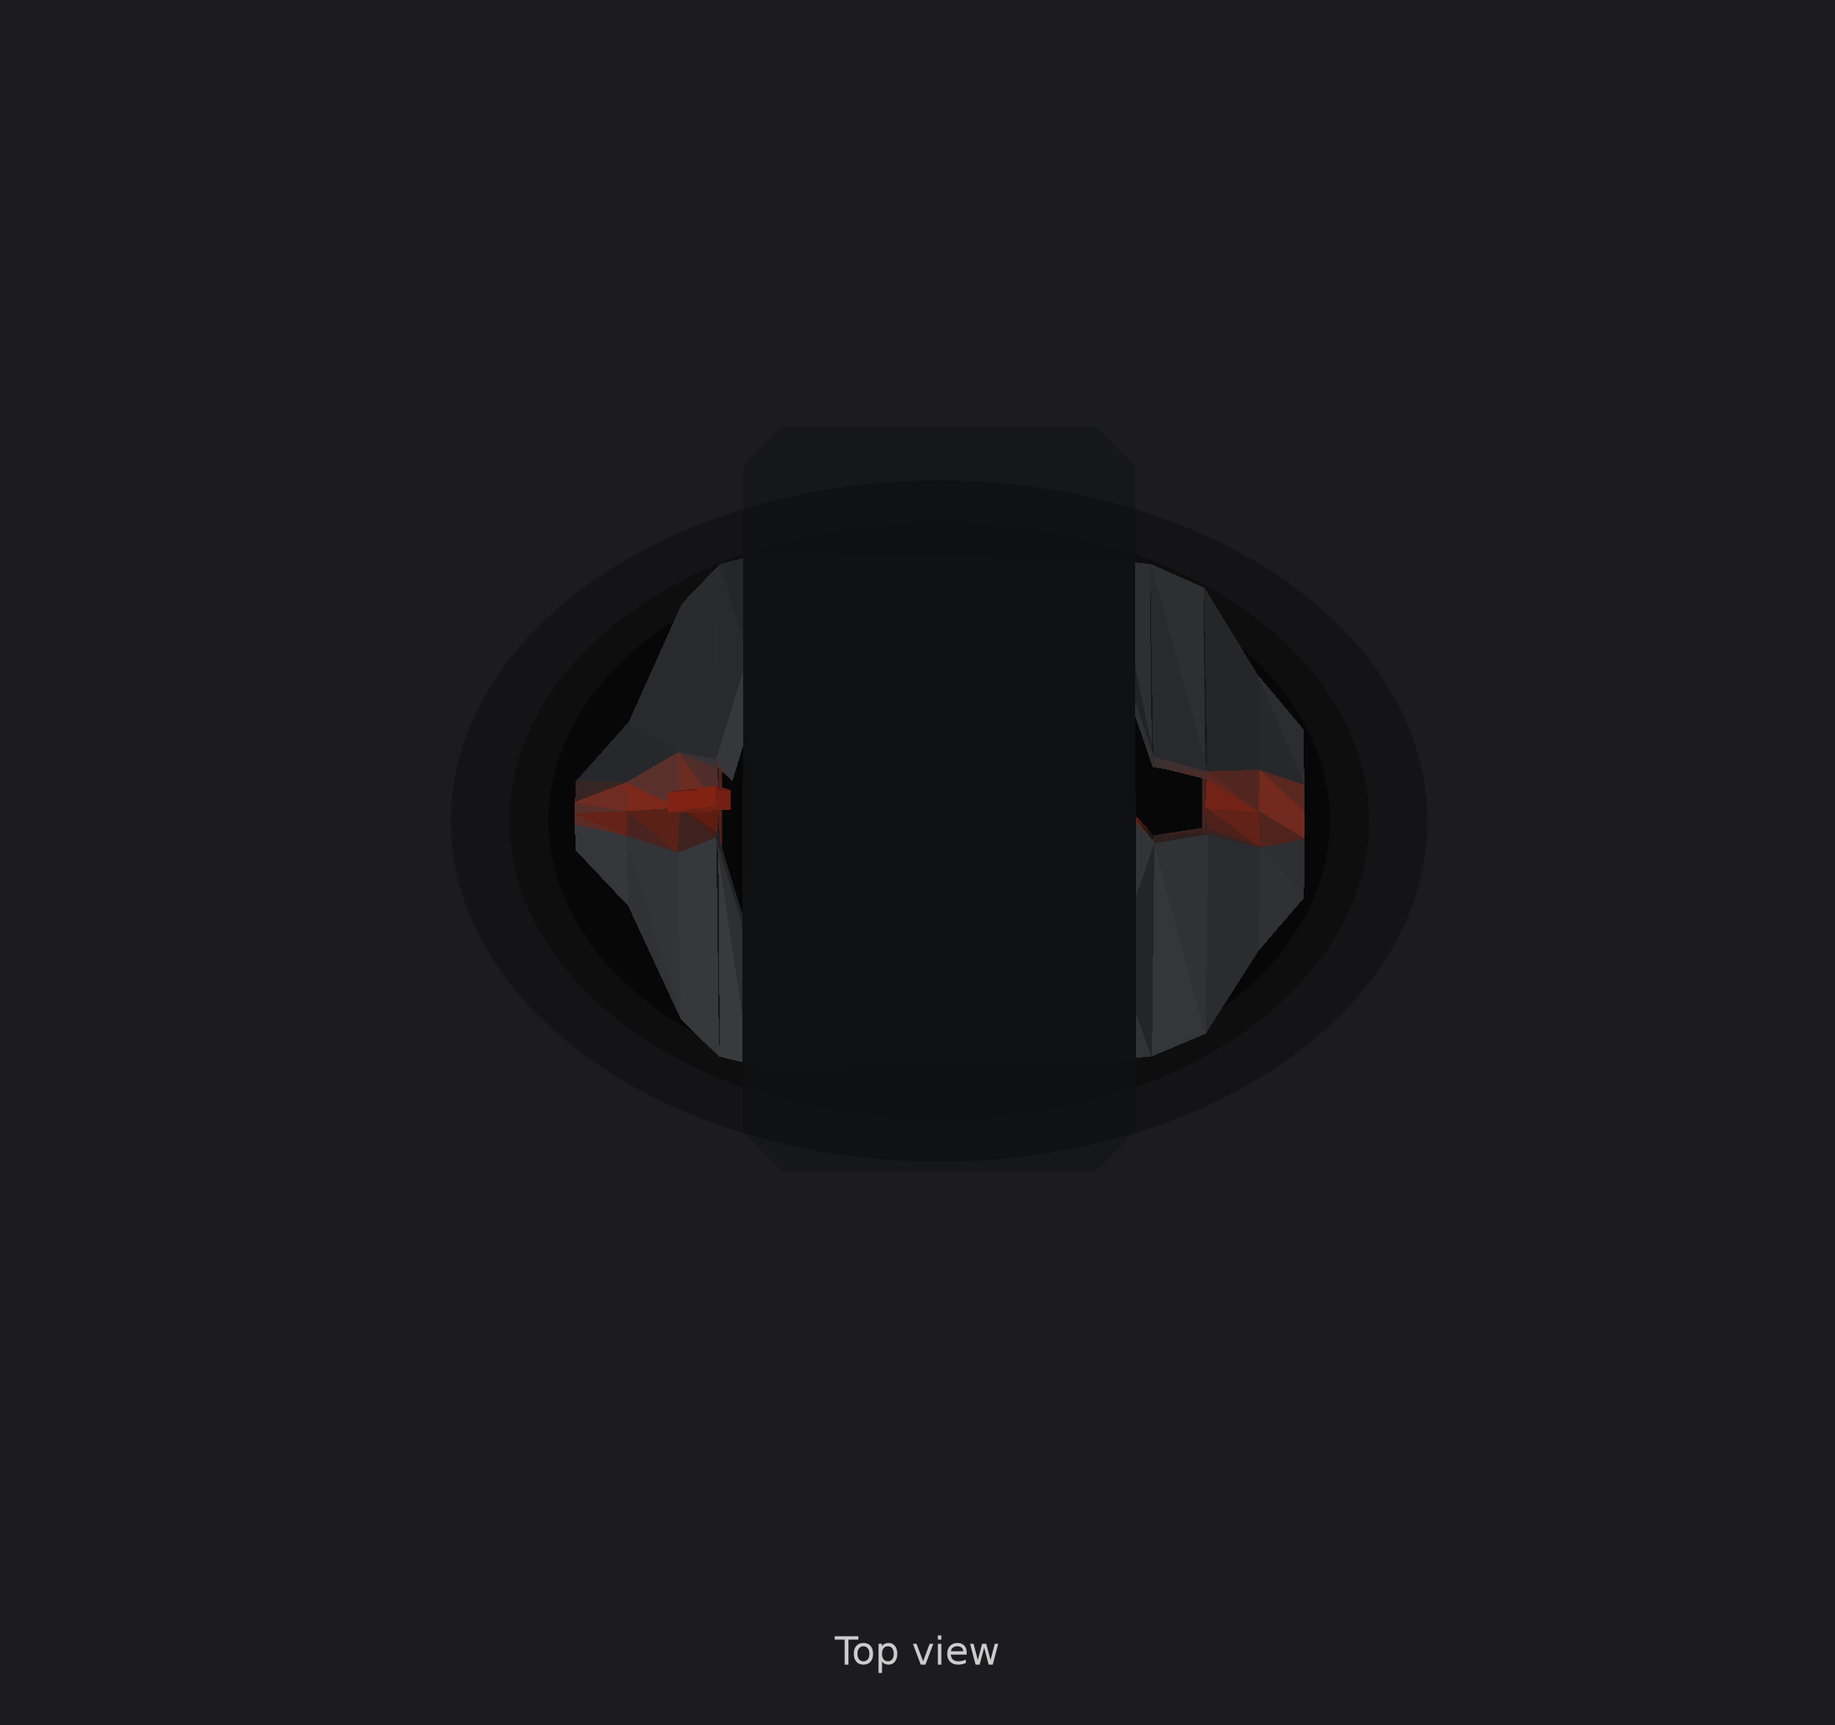
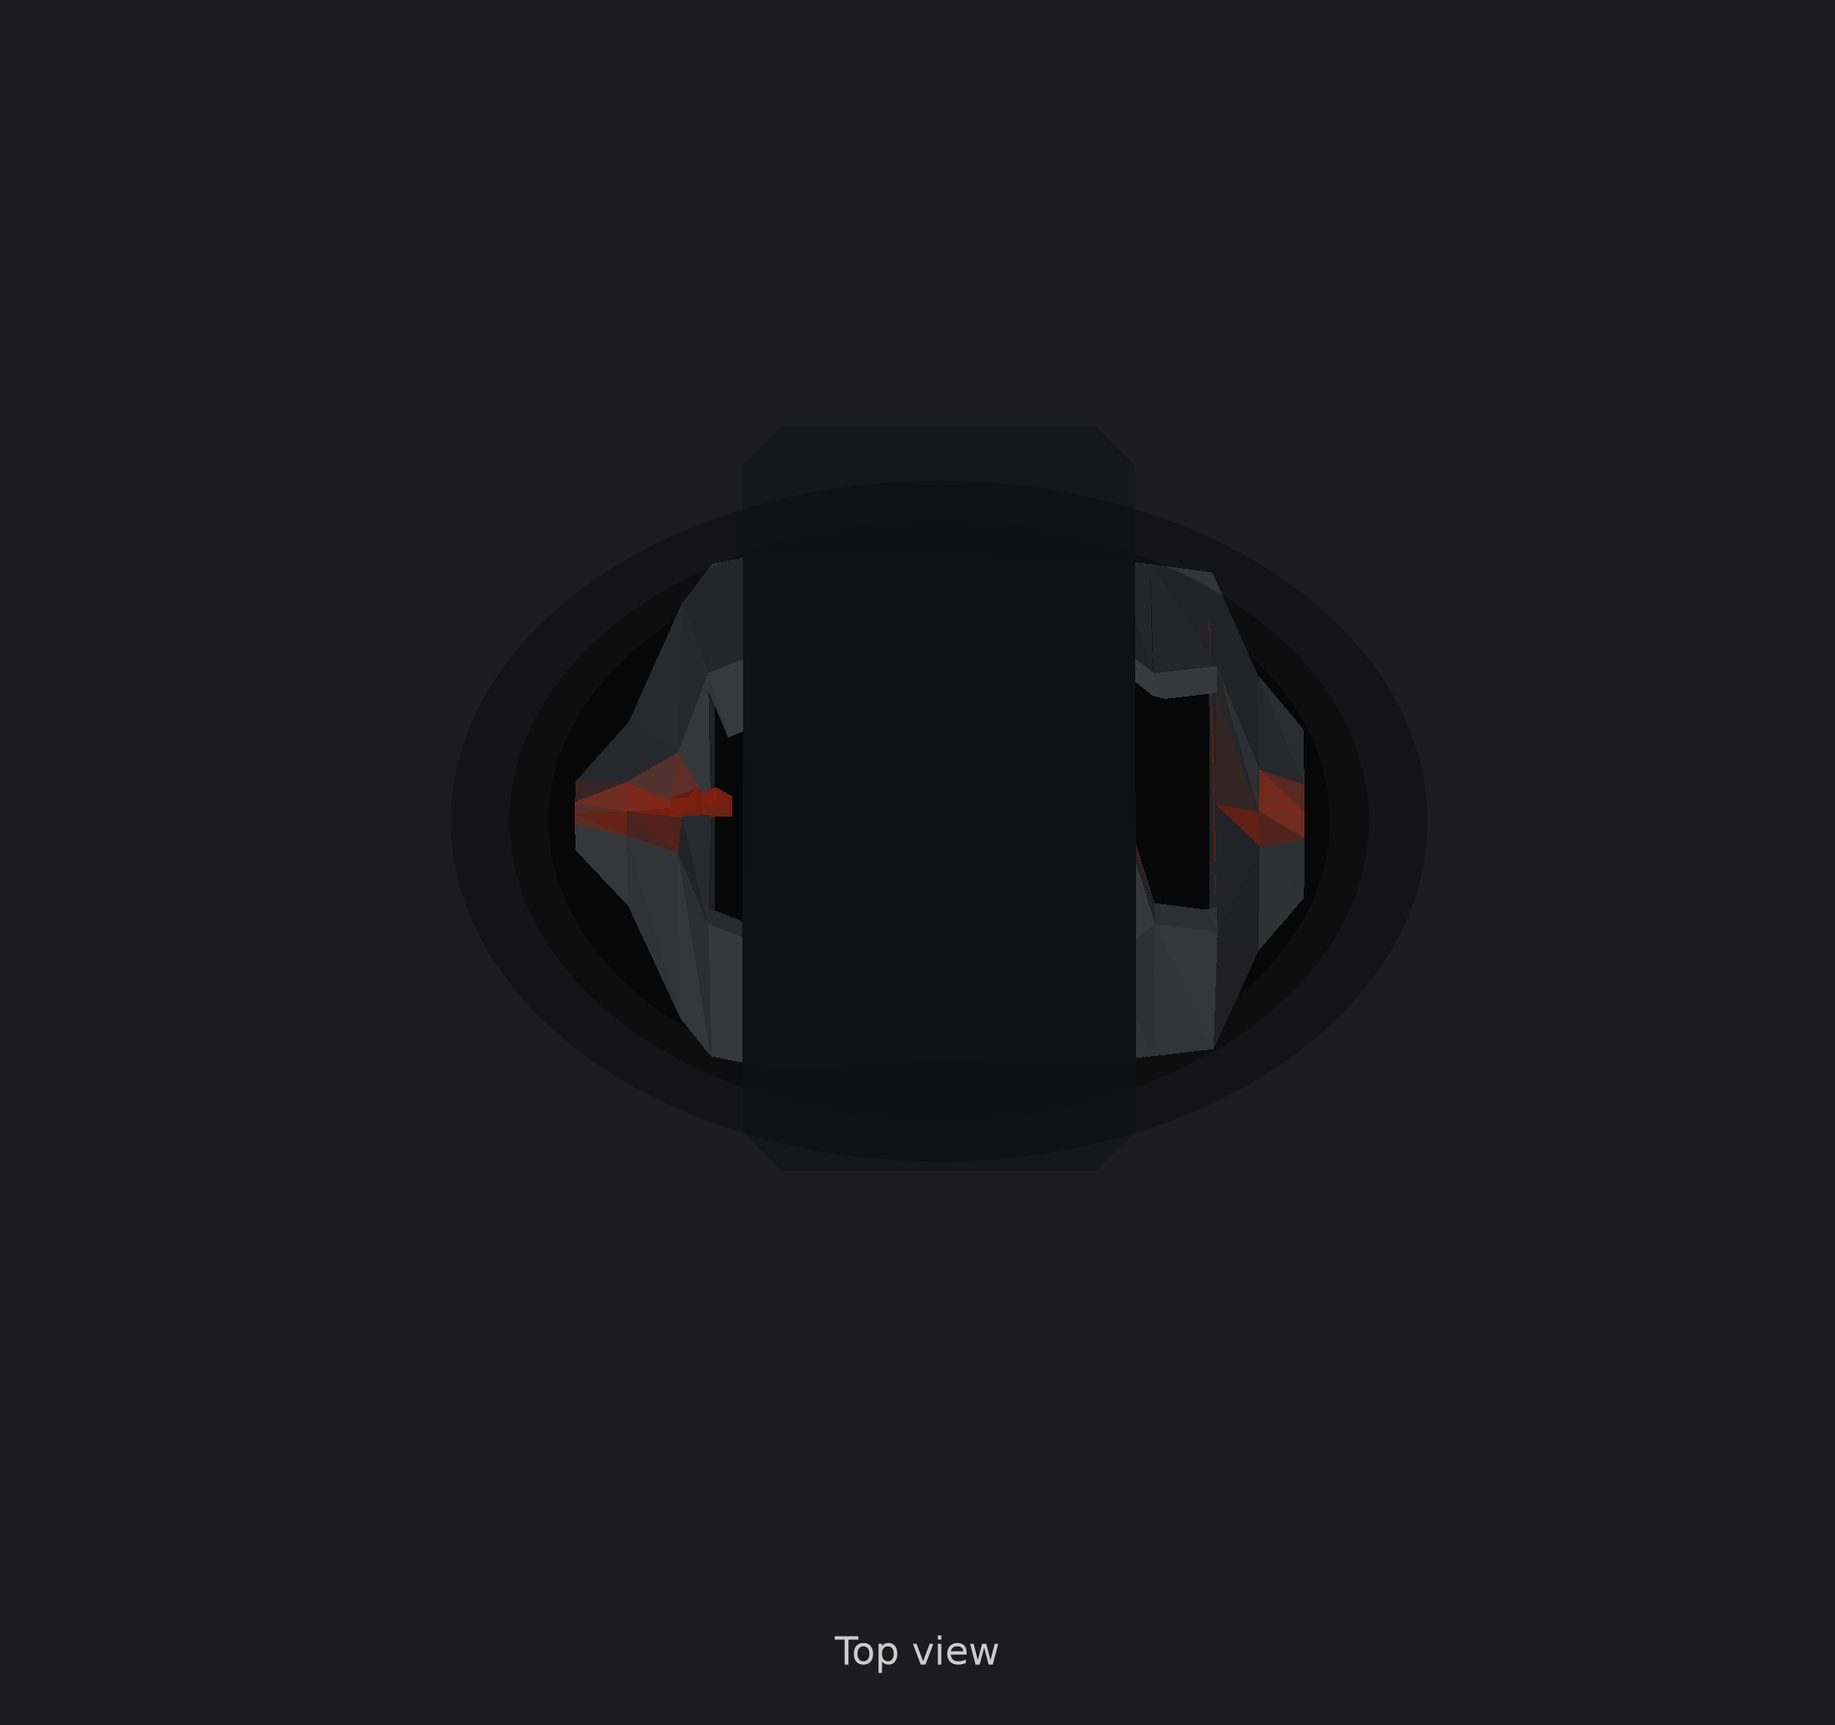
Fix floating fins and cavity sizing shortfall
Two real bugs caught from the user's Rhino screenshots:

1. Fins floating with a visible gap underneath. The fin base was
   anchored to `az` (ridge height at y=+-rw), but the fins sit
   centered at y=0 - the bottom of the V-notch, not the ridge. True
   surface there is 18-22mm lower (az - groove). Fixed by anchoring
   to az-groove and raising fin height (9/11mm -> 26mm) so the tips
   still clear the ridge from their now-correct, lower base.

2. Cavity didn't actually clear 130x85x40 everywhere, only looked
   close by gross INNER_X_RANGE length. Checking every station
   individually (half-width at the 40mm height components need)
   found the two hollow-boundary stations plus one in the middle
   pinched down to 25-63mm wide - well under the 85mm needed. Widened
   the ridge (not the groove depth, so the look is unchanged) at
   those three stations; every station across the full 130mm span
   now individually passes, verified numerically.

External envelope unaffected: still 190x133x62mm. Also documented why
Rhino's BoundingBox read 190x190x66.6 - that's body+plate cumulative,
and the plate is deliberately 190mm wide to span for the bar clamps
per spec section 7. Body alone matches the spec envelope.

Applied identically to generate_enclosure.py and
rhino_build_enclosure.py; verified both files' STATIONS/fin tables
match exactly.

Claude-Session: https://claude.ai/code/session_01SGh8fozgoC1NAkC23KzhgU

diff --git a/hardware/handlebar-enclosure/generate_enclosure.py b/hardware/handlebar-enclosure/generate_enclosure.py
@@ -20,16 +20,26 @@ PAD_X0, PAD_X1 = 50.0, 140.0
 WALL_T = 3.0
 
 # (x, bw, sw, sz, rw, az, groove)
+# NOTE on x=36/150/166: these are the INNER_X_RANGE hollow boundaries.
+# Originally (x=38 rw=10, x=150 rw=11, x=164 rw=8) they were narrow
+# enough that the interior didn't clear 85mm width at the 40mm height the
+# spec needs - checked numerically (half-width at z=40 came out to
+# 31/28/12mm, all failing the 42.5mm-half-width bar). Widened rw/az at
+# these three stations so the actual usable interior - not just the
+# gross INNER_X_RANGE span - clears 130x85x40 (verified below after
+# rebuilding). The V-notch (groove) is unchanged, so the dragon-seam
+# look is the same, just the ridge the groove cuts into is a bit wider
+# and taller at these specific stations.
 STATIONS = [
     (0.0,    7,  9,  6,  3, 12,  0.0),   # nose tip - low, narrow, sharp
     (14.0,  18, 24, 12,  7, 26,  7.0),   # nose rises, V starting to open
     (28.0,  40, 54, 21, 13, 46, 16.0),   # shoulder widens, deep V
-    (38.0,  56, 64, 25, 10, 58, 24.0),   # tall sharp ridge peak before the pad - deepest V
+    (36.0,  56, 64, 25, 32, 60, 24.0),   # tall ridge peak before the pad - widened for cavity clearance
     (46.0,  60, 66, 26, 36, 60,  6.0),   # ridge closes fast into the flat deck
     (50.0,  62, 66, 26, 40, 58,  0.0),   # pad front edge (flat)
     (140.0, 60, 65, 26, 40, 58,  0.0),   # pad back edge (flat)
-    (150.0, 58, 64, 25, 11, 54, 18.0),   # ridge resumes behind the pad
-    (164.0, 48, 58, 23,  8, 46, 16.0),   # rear ridge peak
+    (150.0, 58, 64, 25, 32, 59, 18.0),   # ridge resumes behind the pad - widened for cavity clearance
+    (166.0, 54, 62, 23, 34, 58, 16.0),   # rear ridge peak - widened for cavity clearance
     (178.0, 28, 36, 16, 10, 28,  8.0),   # tail taper
     (190.0, 18, 22, 13,  7, 18,  0.0),   # blunt tail transom
 ]
@@ -75,6 +85,9 @@ def check_overhangs(mesh, label):
     return pct
 
 def interp_station(x):
+    """Returns (bw, sw, sz, rw, az) - NOT groove; use interp_groove(x) too
+    if you need the true y=0 surface height (az - groove), since az alone
+    is the RIDGE height at y=+-rw, not the (lower, V-notched) centerline."""
     xs = [s[0] for s in STATIONS]
     if x <= xs[0]: return STATIONS[0][1:6]
     if x >= xs[-1]: return STATIONS[-1][1:6]
@@ -86,11 +99,30 @@ def interp_station(x):
             return tuple(a[j] + t * (b[j] - a[j]) for j in range(5))
     return STATIONS[-1][1:6]
 
+def interp_groove(x):
+    xs = [s[0] for s in STATIONS]
+    if x <= xs[0]: return STATIONS[0][6]
+    if x >= xs[-1]: return STATIONS[-1][6]
+    for i in range(len(STATIONS) - 1):
+        x0, x1 = xs[i], xs[i + 1]
+        if x0 <= x <= x1:
+            t = 0.0 if x1 == x0 else (x - x0) / (x1 - x0)
+            return STATIONS[i][6] + t * (STATIONS[i + 1][6] - STATIONS[i][6])
+    return STATIONS[-1][6]
+
 def build_dorsal_fin(x_center, proud_height, base_half=5.5, apex_back_offset=2.0,
                       thick_half=2.5, embed=1.5):
+    # BUG (found via Rhino screenshots - fins floating with a visible gap
+    # underneath): this used to anchor to `az`, the RIDGE height at
+    # y=+-rw. But the fin is centered at y=0, which sits in the bottom of
+    # the V-notch, not on the ridge - the real surface there is lower by
+    # the groove depth. Anchor to that instead so the fin's base actually
+    # touches solid material.
     bw, sw, sz, rw, az = interp_station(x_center)
-    base_z = az - embed
-    apex_z = az + proud_height
+    groove = interp_groove(x_center)
+    surface_z = az - groove
+    base_z = surface_z - embed
+    apex_z = surface_z + proud_height
     x_front, x_back = x_center - base_half, x_center + base_half
     x_apex = x_center + apex_back_offset
     pts = np.array([
@@ -107,7 +139,7 @@ hull, _, _, _, _ = build_hull(STATIONS)
 print(f"[hull] watertight={hull.is_watertight} volume={hull.volume/1000:.1f}cm^3 "
       f"bbox={(hull.bounds[1]-hull.bounds[0]).round(1)}")
 
-INNER_X_RANGE = (38.0, 164.0)
+INNER_X_RANGE = (36.0, 166.0)   # 130mm, now genuinely wide/tall enough end to end
 inner_stations = [
     (x, inset(bw, WALL_T), inset(sw, WALL_T), max(sz - WALL_T, 2.0), inset(rw, WALL_T), az - WALL_T, 0.0)
     for (x, bw, sw, sz, rw, az, groove) in STATIONS if INNER_X_RANGE[0] <= x <= INNER_X_RANGE[1]
@@ -141,7 +173,7 @@ usb_cut.apply_translation([usb_x, cut_cy, usb_z])
 shell = shell.difference(usb_cut, engine="manifold")
 
 print("front fins:")
-for fx, fh in [(31.0, 9.0), (36.0, 11.0)]:
+for fx, fh in [(31.0, 26.0), (36.0, 26.0)]:  # taller now that the base is correctly anchored low in the V-notch
     shell = shell.union(build_dorsal_fin(fx, fh), engine="manifold")
 
 shell.merge_vertices()

diff --git a/hardware/handlebar-enclosure/rhino_build_enclosure.py b/hardware/handlebar-enclosure/rhino_build_enclosure.py
@@ -35,23 +35,37 @@ PAD_Z = 58.0
 PAD_X0, PAD_X1 = 50.0, 140.0
 WALL_T = 3.0
 
+# NOTE on x=36/150/166: these are the INNER_X_RANGE hollow boundaries.
+# Originally (x=38 rw=10, x=150 rw=11, x=164 rw=8) they were narrow enough
+# that the interior didn't clear 85mm width at the 40mm height the spec
+# needs - checked numerically (half-width at z=40 came out to 31/28/12mm,
+# all failing the 42.5mm-half-width bar). Widened rw/az at these three
+# stations so the actual usable interior - not just the gross
+# INNER_X_RANGE span - clears 130x85x40 (every station in range now
+# individually passes, not just the two endpoints). The V-notch (groove)
+# is unchanged, so the dragon-seam look is the same, just the ridge the
+# groove cuts into is a bit wider/taller at these specific stations.
 # (x, bottom_hw, shoulder_hw, shoulder_z, ridge_hw, apex_z, groove)
 STATIONS = [
     (0.0,    7,  9,  6,  3, 12,  0.0),   # nose tip - low, narrow, sharp
     (14.0,  18, 24, 12,  7, 26,  7.0),   # nose rises, V starting to open
     (28.0,  40, 54, 21, 13, 46, 16.0),   # shoulder widens, deep V
-    (38.0,  56, 64, 25, 10, 58, 24.0),   # tall sharp ridge peak before the pad - deepest V
+    (36.0,  56, 64, 25, 32, 60, 24.0),   # tall ridge peak before the pad - widened for cavity clearance
     (46.0,  60, 66, 26, 36, 60,  6.0),   # ridge closes fast into the flat deck
     (50.0,  62, 66, 26, 40, 58,  0.0),   # pad front edge (flat)
     (140.0, 60, 65, 26, 40, 58,  0.0),   # pad back edge (flat)
-    (150.0, 58, 64, 25, 11, 54, 18.0),   # ridge resumes behind the pad
-    (164.0, 48, 58, 23,  8, 46, 16.0),   # rear ridge peak
+    (150.0, 58, 64, 25, 32, 59, 18.0),   # ridge resumes behind the pad - widened for cavity clearance
+    (166.0, 54, 62, 23, 34, 58, 16.0),   # rear ridge peak - widened for cavity clearance
     (178.0, 28, 36, 16, 10, 28,  8.0),   # tail taper
     (190.0, 18, 22, 13,  7, 18,  0.0),   # blunt tail transom
 ]
 
-INNER_X_RANGE = (38.0, 164.0)
-FIN_SPECS = [(31.0, 9.0), (36.0, 11.0)]   # (x_center, proud_height) - front, nose side
+INNER_X_RANGE = (36.0, 166.0)   # 130mm, now genuinely wide/tall enough end to end
+# (x_center, proud_height) - front, nose side. proud_height is measured
+# from the TRUE y=0 surface (az - groove, see build_dorsal_fin below), not
+# from az, so it needs to be large enough to clear the groove depth
+# (~18-22mm here) before the fin pokes up past the surrounding ridge.
+FIN_SPECS = [(31.0, 26.0), (36.0, 26.0)]
 PORT_W, PORT_H, PORT_D = 16.0, 11.0, 14.0
 USB_W, USB_H = 14.0, 10.0
 USB_X, USB_Z = 60.0, 20.0
@@ -139,6 +153,9 @@ def inset(v, t, min_v=6.0):
     return max(v - t, min_v)
 
 def interp_station(x):
+    """Returns (bw, sw, sz, rw, az) - NOT groove; use interp_groove(x) too
+    if you need the true y=0 surface height (az - groove), since az alone
+    is the RIDGE height at y=+-rw, not the (lower, V-notched) centerline."""
     xs = [s[0] for s in STATIONS]
     if x <= xs[0]:
         return STATIONS[0][1:6]
@@ -152,11 +169,32 @@ def interp_station(x):
             return tuple(a[j] + t * (b[j] - a[j]) for j in range(5))
     return STATIONS[-1][1:6]
 
+def interp_groove(x):
+    xs = [s[0] for s in STATIONS]
+    if x <= xs[0]:
+        return STATIONS[0][6]
+    if x >= xs[-1]:
+        return STATIONS[-1][6]
+    for i in range(len(STATIONS) - 1):
+        x0, x1 = xs[i], xs[i + 1]
+        if x0 <= x <= x1:
+            t = 0.0 if x1 == x0 else (x - x0) / (x1 - x0)
+            return STATIONS[i][6] + t * (STATIONS[i + 1][6] - STATIONS[i][6])
+    return STATIONS[-1][6]
+
 def build_dorsal_fin(x_center, proud_height, base_half=5.5, apex_back_offset=2.0,
                       thick_half=2.5, embed=1.5):
+    # BUG (found via Rhino screenshots - fins floating with a visible gap
+    # underneath): this used to anchor to `az`, the RIDGE height at
+    # y=+-rw. But the fin is centered at y=0, which sits in the bottom of
+    # the V-notch, not on the ridge - the real surface there is lower by
+    # the groove depth. Anchor to that instead so the fin's base actually
+    # touches solid material.
     bw, sw, sz, rw, az = interp_station(x_center)
-    base_z = az - embed
-    apex_z = az + proud_height
+    groove = interp_groove(x_center)
+    surface_z = az - groove
+    base_z = surface_z - embed
+    apex_z = surface_z + proud_height
     x_front, x_back = x_center - base_half, x_center + base_half
     x_apex = x_center + apex_back_offset
     pts = [

diff --git a/hardware/handlebar-enclosure/README.md b/hardware/handlebar-enclosure/README.md
@@ -29,27 +29,65 @@ small dragon-fin accents near the nose.
   stock photography. Plate is 100 × 190mm, bolt holes left undrilled per
   spec (mark and drill once the real clamps are in hand).
 
-## A bug I found and fixed while building the Rhino version
+## Bugs found and fixed (two rounds)
 
-The first pass had the top plate rotated 90° by mistake (copied from an
-earlier version where that rotation dodged a different set of fins). That
-put the plate's long 190mm dimension along the body's length — hanging off
-both the nose and tail — instead of across the body for the bar clamps.
-Fixed before handing off the Rhino script; `generate_enclosure.py` and
-`rhino_build_enclosure.py` both have the corrected orientation.
+1. **Plate rotated 90° by mistake** (copied from an earlier version where
+   that rotation dodged a different set of fins). Put the plate's long
+   190mm dimension along the body's length — hanging off both the nose
+   and tail — instead of across the body for the bar clamps. Fixed before
+   the first Rhino handoff.
+2. **Fins floating with a visible gap underneath** (caught from Rhino
+   screenshots after printing/viewing the first dragon-shield pass). Root
+   cause: the fin's base was anchored to `az`, the ridge height out at
+   `y=±rw` — but the fins sit centered at `y=0`, which is the *bottom* of
+   the V-notch, not the ridge. At the fin's actual position, the true
+   surface is 18-22mm lower than `az` (`az - groove`). The fin's base was
+   floating in mid-air that whole distance. Fixed by anchoring to
+   `az - groove` instead, and increased fin height (9/11mm → 26mm) so the
+   tips still clear the now-correctly-lower base and poke up past the
+   surrounding ridge.
+
+## Cavity sizing - verified, not just assumed
+
+Spec requires >=130 x 85 x 40mm of usable interior. The gross
+`INNER_X_RANGE` length (126mm) looked close enough at a glance, but
+checking every station individually (half-width at the 40mm height the
+components need) showed the two hollow-region boundary stations, plus one
+in the middle, actually pinched down to 25-63mm wide there - well under
+the 85mm needed. Fixed by widening the ridge at those three stations
+(wider/taller, same groove depth, so the V-notch look is unchanged) and
+re-verified: **every** station across the full 130mm hollow span (36mm to
+166mm) now individually clears 85mm width at 40mm height, not just the
+two endpoints. See `generate_enclosure.py`'s station comments for the
+before/after numbers.
+
+External envelope is unaffected by either fix: still 190 × 133 × 62mm,
+inside the spec's 190 × 135 × 70 recommendation and every printer bed
+listed in spec.md.
 
 ## Numbers
 
 | | Value |
 |---|---|
-| Body mass (PLA) | 259g |
-| Body cost @ $22/kg | $5.69 |
-| Body bbox | 190 × 133 × 67mm |
+| Body mass (PLA) | 255g |
+| Body cost @ $22/kg | $5.61 |
+| Body bbox | 190 × 133 × 62mm |
+| Cavity | 130mm long, >=85mm wide and >=40mm tall at every station in that span |
 | Plate mass if printed | 140g — recommend plywood/acrylic instead |
-| Overhang checker | 41.5% of downward-facing area flagged |
-| Fin overhang angles | 35.5°/18.4° and 31.0°/15.6° (both under the 45° limit) |
+| Overhang checker | 35.9% of downward-facing area flagged |
+| Fin overhang angles | both fins 15.3°/7.3° (well under the 45° limit) |
 
 Body alone is well under the 300g budget.
+
+## About that 190×190×66.6mm Rhino BoundingBox reading
+
+If you ran Rhino's `BoundingBox` command with `Cumulative=Yes` over both
+solids, it measures the *plate* too - and the plate is deliberately
+190mm wide (spans past the body) so two bar clamps have something to
+bolt to, per spec section 7: "wider than the enclosure... a separate
+plate solves this." The **body alone** is 190 × 133 × 62mm, matching the
+spec's recommended envelope. Select just the body mesh before running
+BoundingBox if you want the enclosure's own dimensions.
 
 ## Honest gaps
 
@@ -62,7 +100,7 @@ Body alone is well under the 300g budget.
    groove faces are colored in the preview. In Rhino, assign those
    centerline faces a separate emissive/red material if you want the same
    look (see the print statement at the end of `rhino_build_enclosure.py`).
-3. **Not slicer-checked.** The 41.5% overhang number is a simple
+3. **Not slicer-checked.** The 35.9% overhang number is a simple
    face-angle heuristic, not a real slice — check actual bridging before
    printing.
 4. **USB port position (x=60mm, left wall) is still a placeholder** — spec
